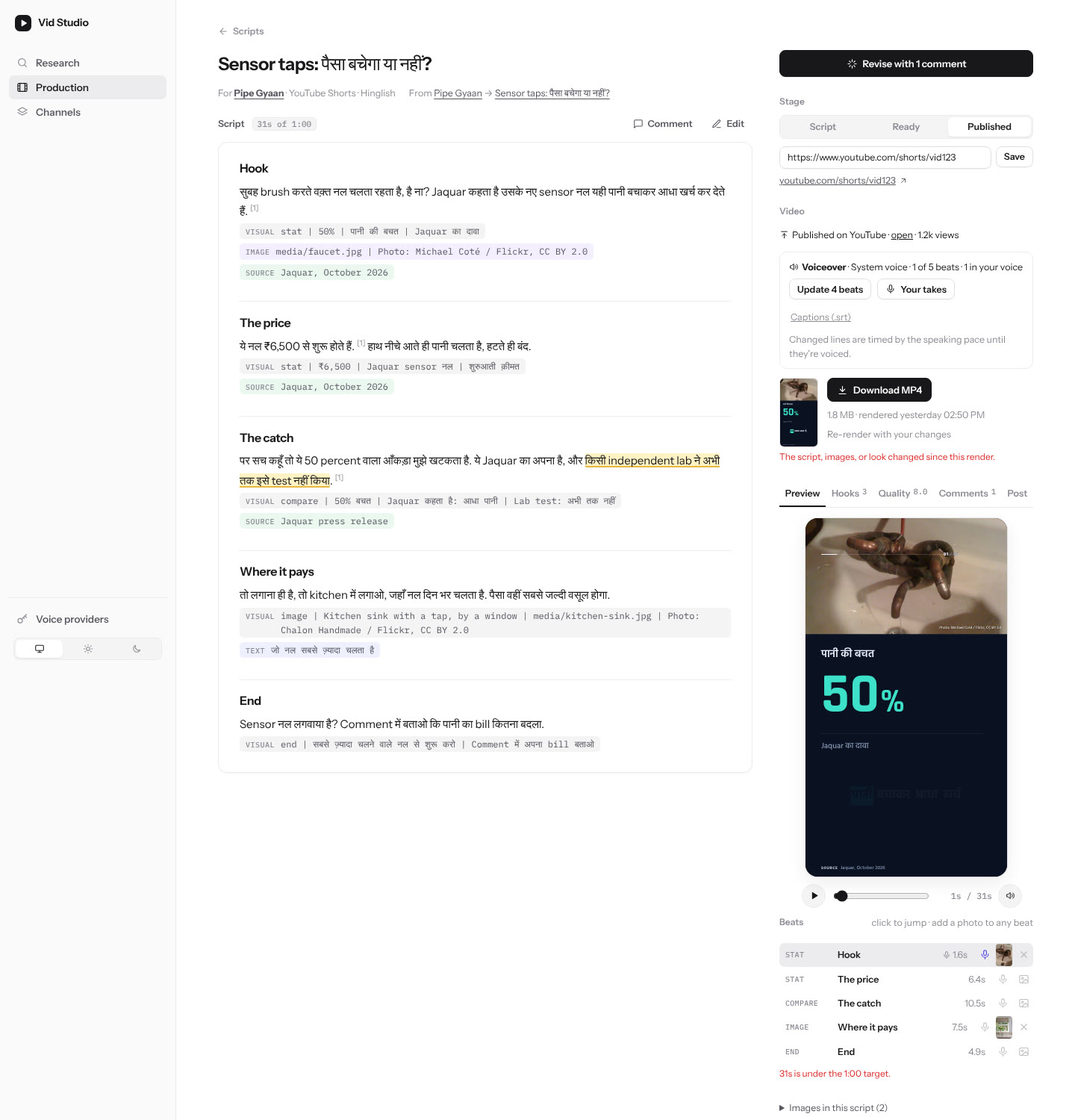
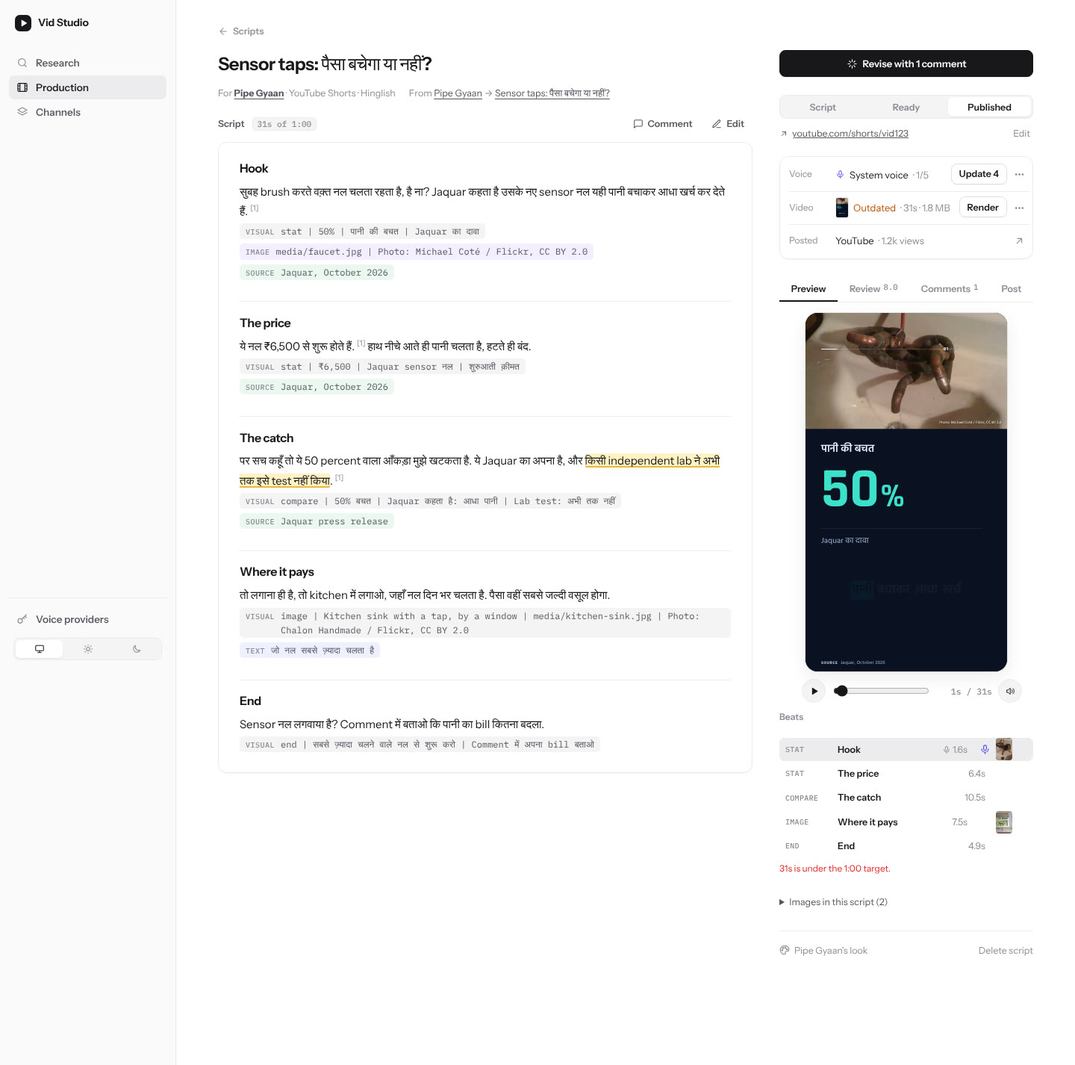
Simplify the script sidebar, move project settings to the sidebar footer, and rewrite the README
The script page's sidebar was three stacked boxes and five tabs. It is now
one primary action, the stage, and a single status card with one row each
for voice, video and the post. Each row has one next action, with the
rarer ones in a "⋯" menu. Hooks and the score merge into a Review tab,
beat actions show on hover, and the channel's look and Delete script move
to a quiet footer. The published link shows as a link with Edit instead of
a permanent input.

Project settings move to the sidebar footer, next to voice providers.

The README is rewritten around what the studio does (research, write,
produce, publish), with framed light and dark screenshots of the real UI
and a small flow diagram, then requirements, files and development.

Claude-Session: https://claude.ai/code/session_01Ufks24pPpBPncrmdvzrX2E

diff --git a/skills/vid-studio/assets/ui/index.html b/skills/vid-studio/assets/ui/index.html
@@ -334,6 +334,39 @@ textarea.doc.short { height: 260px; }
 .side-tabs button.on { color: var(--ink); box-shadow: inset 0 -2px 0 var(--ink); }
 .side-tabs .n { font: 500 10.5px var(--mono); color: var(--ink-3); }
 #side-panel { display: grid; gap: 10px; }
+.side .stage-seg { margin-bottom: 4px; }
+.published, .published-link { display: flex; gap: 6px; align-items: center; margin-top: 8px; }
+.published-link a { display: inline-flex; gap: 5px; align-items: center; font-size: 12.5px; color: var(--ink-2); min-width: 0; overflow: hidden; text-overflow: ellipsis; white-space: nowrap; }
+.published-link a svg { width: 12px; height: 12px; flex: none; }
+.published-link .text-btn { padding: 2px 4px; margin-left: auto; }
+.side section.status { margin-top: 18px; border: 1px solid var(--line); border-radius: var(--radius-lg); background: var(--raised); padding: 2px 4px 2px 12px; box-shadow: var(--shadow-xs); }
+.status-row { display: grid; grid-template-columns: 52px minmax(0, 1fr) auto; align-items: center; gap: 10px; min-height: 44px; font-size: 13px; }
+.status-row + .status-row { border-top: 1px solid var(--line); }
+.status-label { color: var(--ink-3); font-size: 12px; }
+.status-value svg { width: 13px; height: 13px; color: var(--accent); flex: none; }
+.status-value { display: flex; align-items: center; gap: 6px; min-width: 0; white-space: nowrap; overflow: hidden; text-overflow: ellipsis; }
+.status-value .bar { flex: 1; height: 3px; border-radius: 2px; background: var(--surface-2); overflow: hidden; min-width: 40px; }
+.status-value .bar i { display: block; height: 100%; background: var(--accent); }
+.status-thumb { width: 18px; height: 28px; object-fit: cover; border-radius: 3px; flex: none; border: 1px solid var(--line); }
+.status-act { display: flex; align-items: center; gap: 2px; }
+.status-act .icon-btn { width: 28px; height: 28px; }
+.status .beat-warn { margin: 0 4px 10px 0; }
+.ok-dot { width: 7px; height: 7px; border-radius: 50%; background: var(--success); margin: 0 10px; }
+.warn-text { color: var(--warn); }
+details.more { position: relative; }
+details.more > summary { list-style: none; width: 28px; height: 28px; }
+details.more > summary::-webkit-details-marker { display: none; }
+.more-pop { position: absolute; right: 0; top: 32px; z-index: 20; min-width: 220px; padding: 4px; background: var(--raised); border: 1px solid var(--line); border-radius: 10px; box-shadow: var(--shadow); display: grid; }
+.more-item { display: flex; align-items: center; gap: 8px; height: 32px; padding: 0 10px; border: 0; border-radius: 6px; background: transparent; font-size: 13px; color: var(--ink); text-decoration: none; cursor: pointer; text-align: left; white-space: nowrap; }
+.more-item:hover { background: var(--surface); }
+.more-item svg { width: 15px; height: 15px; color: var(--ink-3); }
+.more-note { font-size: 11.5px; color: var(--ink-3); padding: 6px 10px 4px; border-top: 1px solid var(--line); margin-top: 4px; }
+.side-foot { display: flex; align-items: center; justify-content: space-between; gap: 8px; margin-top: 24px; padding-top: 12px; border-top: 1px solid var(--line); font-size: 12.5px; }
+.side-foot a { display: inline-flex; align-items: center; gap: 6px; color: var(--ink-3); text-decoration: none; }
+.side-foot a:hover { color: var(--ink); }
+.side-foot svg { width: 14px; height: 14px; }
+.side-foot .text-btn { padding: 4px 0; }
+.angles { display: grid; gap: 8px; }
 #side-panel .field { margin-bottom: 10px; }
 #side-panel .side-actions { margin-top: 12px; display: grid; gap: 8px; }
 #side-panel .player-bar { max-width: 280px; }
@@ -383,7 +416,8 @@ a.ref-link:hover { border-color: var(--line-3); }
 .beat-row:hover { background: var(--surface); }
 .beat-row.on { background: var(--surface-2); }
 .beat-row .beat:hover { background: none; }
-.beat-row .icon-btn { flex: none; width: 26px; height: 26px; opacity: .55; }
+.beat-row .icon-btn { flex: none; width: 26px; height: 26px; opacity: 0; }
+@media (hover: none) { .beat-row .icon-btn { opacity: .6; } }
 .beat-row:hover .icon-btn, .beat-row .icon-btn.needs, .beat-row .icon-btn.on { opacity: 1; }
 .beat-row .icon-btn.needs { color: var(--danger); }
 .beat-row .icon-btn.on { color: var(--accent); }
@@ -614,9 +648,9 @@ dialog .sub { margin: 0 0 18px; color: var(--ink-2); font-size: 13px; }
     <div class="research-context" id="research-context" hidden>
       <p class="side-label">Projects</p>
       <div class="switcher" id="switcher"></div>
-      <button class="side-link" data-action="settings" id="settings-btn"><span>Project settings</span></button>
     </div>
     <div class="sidebar-foot">
+      <button class="side-link" data-action="settings" id="settings-btn" title="Project settings"><span>Project settings</span></button>
       <button class="side-link" data-action="voice-keys" title="Voice provider keys" data-icon="key"><span>Voice providers</span></button>
       <div class="theme-seg" role="group" aria-label="Theme" id="theme-seg"></div>
     </div>
@@ -656,6 +690,7 @@ const ICONS = {
   image: '<rect x="3" y="4" width="18" height="16" rx="2"/><circle cx="9" cy="10" r="2"/><path d="m21 17-5-5-9 8"/>',
   copy: '<rect x="9" y="9" width="12" height="12" rx="2"/><path d="M5 15V5a2 2 0 0 1 2-2h10"/>',
   layers: '<path d="m12 3 9 5-9 5-9-5 9-5Z"/><path d="m3 13 9 5 9-5"/>',
+  more: '<circle cx="5" cy="12" r="1.3" fill="currentColor"/><circle cx="12" cy="12" r="1.3" fill="currentColor"/><circle cx="19" cy="12" r="1.3" fill="currentColor"/>',
   sun: '<circle cx="12" cy="12" r="4"/><path d="M12 2v2M12 20v2M4.9 4.9l1.4 1.4M17.7 17.7l1.4 1.4M2 12h2M20 12h2M4.9 19.1l1.4-1.4M17.7 6.3l1.4-1.4"/>',
   moon: '<path d="M20 14.5A8 8 0 0 1 9.5 4a8 8 0 1 0 10.5 10.5Z"/>',
   monitor: '<rect x="3" y="4" width="18" height="12" rx="2"/><path d="M8 20h8M12 16v4"/>',
@@ -1598,7 +1633,7 @@ function publishingPanel(c) {
         <p class="muted small">${chosen.id === "youtube" ? "New uploads start private unless you change it here or on the post. Until Google audits your API project, YouTube keeps its uploads private; make them public in YouTube Studio. YouTube asks you to label realistic altered or synthetic content; a narrated explainer usually isn't." : chosen.id === "tiktok" ? "TikTok only lets apps it hasn't audited post privately; drafts always work." : "Instagram posts go live straight away; there is no private or scheduled post through its API."}</p></section>` : ""}
     </div>
     <div class="preview-col"><p class="save-note" id="save-note"></p>
-      <div class="ask"><h4>${icon("upload")}How publishing works</h4><p class="muted small">Render a script, check its post details on the script's Publish tab, and click Publish. The studio uploads the MP4 from this computer straight to ${esc(chosen?.name || "the platform")}, then marks the script published with its link. Nothing posts without you clicking Publish and confirming.</p></div></div>
+      <div class="ask"><h4>${icon("upload")}How publishing works</h4><p class="muted small">Render a script, check its post details on the script's Post tab, and click Publish. The studio uploads the MP4 from this computer straight to ${esc(chosen?.name || "the platform")}, then marks the script published with its link. Nothing posts without you clicking Publish and confirming.</p></div></div>
   </div>`;
 }
 async function savePublishing(view, changes) {
@@ -1689,7 +1724,7 @@ async function renderEditor(kind, id) {
         if (!current() || editor !== view) return;
         Object.assign(view, { design, voice });
         if (!VOICE_PROVIDERS) loadVoiceProviders().then(() => { if (editor === view) updateVideoBox(); }).catch(() => {});
-        editor.sideTab = docText().trim() ? "preview" : "hooks";
+        editor.sideTab = docText().trim() ? "preview" : "review";
       }
     }
     catch (e) { if (!current()) return; app.innerHTML = `<a class="back" href="${kind === "script" ? "#/production" : base() + "/stories"}">${icon("back")}${E.backLabel}</a><div class="empty"><h3>Not found</h3><p>${esc(e.message)}</p></div>`; return; }
@@ -1804,66 +1839,73 @@ function scriptTextChanged() {
 const SCORE_LABELS = [["hook", "Hook"], ["clarity", "Clarity"], ["retention", "Retention"], ["specificity", "Specificity"], ["voice", "Voice"], ["human", "Human story"], ["natural", "Sounds human"], ["value", "Value"], ["accuracy", "Accuracy"]];
 function scriptSide() {
   const d = editor.data, open = openComments(d);
-  const tabs = isPost() ? [] : [["preview", "Preview"], ["hooks", "Hooks"], ["quality", "Quality"], ["comments", "Comments"], ["publish", "Post"]];
-  const badge = { hooks: (d.angles || []).length, comments: open.length, quality: d.review ? avgScore(d.review).toFixed(1) : "" };
-  const tab = isPost() ? "comments" : editor.sideTab || "preview";
-  return `<div class="side-actions"><button class="btn primary" data-action="write-draft">${icon("spark")}${open.length ? `Revise with ${plural(open.length, "comment")}` : "Write draft"}</button></div>
-    <section><h4>Stage</h4>
-      <div class="seg stage-seg">${STAGES.map(([key, label]) => `<button type="button" class="${d.stage === key ? "on" : ""}" data-action="set-stage" data-id="${key}">${label}</button>`).join("")}</div>
-      ${d.stage === "published" ? `<div class="published"><input class="url-input" id="published-url" value="${esc(d.published_url)}" placeholder="Paste the published link" inputmode="url">
-        <button class="btn small" data-action="save-url">Save</button></div>
-        ${d.published_url ? `<a class="small-link" href="${safeUrl(d.published_url)}" target="_blank" rel="noopener noreferrer">${esc(shortUrl(d.published_url))}${icon("external")}</a>` : ""}` : ""}</section>
-    ${isPost() ? "" : `<section id="video-box">${videoBox()}</section>`}
+  const tabs = isPost() ? [] : [["preview", "Preview"], ["review", "Review"], ["comments", "Comments"], ["publish", "Post"]];
+  const badge = { review: d.review ? avgScore(d.review).toFixed(1) : (d.angles || []).length || "", comments: open.length };
+  const tab = isPost() ? "comments" : tabs.some(t => t[0] === editor.sideTab) ? editor.sideTab : "preview";
+  const editingUrl = editor.editUrl || !d.published_url;
+  return `<div class="side-actions"><button class="btn primary" data-action="write-draft">${icon("spark")}${open.length ? `Revise with ${plural(open.length, "comment")}` : d.text?.trim() ? "Rewrite with your agent" : "Write draft"}</button></div>
+    <div class="seg stage-seg" role="group" aria-label="Stage">${STAGES.map(([key, label]) => `<button type="button" class="${d.stage === key ? "on" : ""}" data-action="set-stage" data-id="${key}">${label}</button>`).join("")}</div>
+    ${d.stage === "published" ? (editingUrl ? `<div class="published"><input class="url-input" id="published-url" value="${esc(d.published_url)}" placeholder="Paste the published link" inputmode="url"><button class="btn small" data-action="save-url">Save</button></div>`
+      : `<div class="published-link"><a href="${safeUrl(d.published_url)}" target="_blank" rel="noopener noreferrer">${icon("external")}${esc(shortUrl(d.published_url))}</a><button class="text-btn" data-action="edit-url">Edit</button></div>`) : ""}
+    ${isPost() ? "" : `<section class="status" id="video-box">${videoBox()}</section>`}
     ${tabs.length ? `<div class="side-tabs" role="tablist">${tabs.map(([key, label]) => `<button type="button" role="tab" aria-selected="${tab === key}" class="${tab === key ? "on" : ""}" data-action="side-tab" data-id="${key}">${label}${badge[key] ? `<span class="n">${badge[key]}</span>` : ""}</button>`).join("")}</div>` : ""}
-    <div id="side-panel">${({ preview: previewTab, hooks: hooksTab, quality: qualityTab, comments: commentsTab, publish: publishTab })[tab]()}</div>
-    <section><button class="text-btn danger-text" data-action="delete-script" data-id="${esc(d.id)}">Delete script</button></section>`;
+    <div id="side-panel">${({ preview: previewTab, review: reviewTab, comments: commentsTab, publish: publishTab })[tab]()}</div>
+    <div class="side-foot">${isPost() ? "<span></span>" : lookLink()}
+      <button class="text-btn danger-text" data-action="delete-script" data-id="${esc(d.id)}">Delete script</button></div>`;
+}
+const lookLink = () => `<a href="${channelHref(editor.data.channel, "look")}">${icon("palette")}${esc(channelLabel(editor.data.channel))}'s look</a>`;
+// A "⋯" menu for the less common actions of a status row.
+const moreMenu = items => items.filter(Boolean).length ? `<details class="more"><summary class="icon-btn" aria-label="More">${icon("more")}</summary><div class="more-pop">${items.filter(Boolean).join("")}</div></details>` : "";
+const statusRow = (label, value, action = "", menu = "") => `<div class="status-row"><span class="status-label">${label}</span><span class="status-value">${value}</span><span class="status-act">${action}${menu}</span></div>`;
+function reviewTab() {
+  return `<section><h4>Score</h4>${qualityTab()}</section><section><h4>Hooks</h4><div class="angles">${hooksTab()}</div></section>`;
 }
 
-function voiceoverBox() {
+function voiceoverRow() {
   const n = editor.data.narration, c = channelById(editor.data.channel) || {};
   if (!n) return "";
   const lines = scriptScenes().filter(x => x.say || x.vo), beats = lines.length, mine = lines.filter(x => x.audio?.recorded).length;
-  const record = beats ? `<button class="btn small ${n.provider === "recorded" && mine < beats ? "primary" : ""}" data-action="record-voice">${icon("mic")}${mine ? (mine < beats && n.provider === "recorded" ? `Record ${plural(beats - mine, "beat")}` : "Your takes") : "Record it yourself"}</button>` : "";
-  if (!n.provider) return `<div class="vo-box"><p class="small">${icon(mine ? "mic" : "mute")}<b>Voiceover</b> · ${mine ? `${mine} of ${plural(beats, "beat")} in your voice` : "none, the video renders silent"}</p>
-    <div class="inline">${record}<a class="text-btn" href="${channelHref(editor.data.channel, "narration")}">Choose a voice for ${esc(c.name || "this channel")}</a></div></div>`;
-  const missing = voiceoverMissing(), done = beats - missing;
-  const who = n.provider === "recorded" ? "Your voice" : esc([voiceProvider(n.provider)?.name || n.provider, n.voice].filter(Boolean).join(" · "));
-  if (n.status === "narrating") return `<div class="vo-box"><div class="render-bar"><i style="width:${Math.round((n.progress || 0) * 100)}%"></i></div><p class="muted small">Recording the voiceover with ${who}… ${Math.round((n.progress || 0) * 100)}%</p></div>`;
-  const synth = n.provider !== "recorded";
-  return `<div class="vo-box">${n.status === "failed" && n.error ? `<p class="beat-warn">Voiceover failed: ${esc(n.error)}</p>` : ""}
-    <p class="small">${icon(synth ? "volume" : "mic")}<b>Voiceover</b> · ${who} · ${beats ? `${done} of ${plural(beats, "beat")}` : "no lines yet"}${synth && mine ? ` · ${mine} in your voice` : ""}</p>
-    ${beats ? `<div class="inline">${synth ? (missing ? `<button class="btn small" data-action="narrate">${done ? `Update ${plural(missing, "beat")}` : "Make voiceover"}</button>` : `<span class="pill ok">Up to date</span>`) : (missing ? "" : `<span class="pill ok">All recorded</span>`)}
-      ${record}${synth && done > mine ? `<button class="text-btn" data-action="narrate" data-id="force">Redo all</button>` : ""}${done ? `<a class="text-btn" href="${scriptApi()}/captions.srt" download>Captions (.srt)</a>` : ""}</div>` : ""}
-    ${missing && done ? `<p class="muted small">${synth ? "Changed lines are timed by the speaking pace until they're voiced." : "Beats you haven't recorded are timed by the speaking pace and stay silent."}</p>` : ""}</div>`;
+  const synth = n.provider && n.provider !== "recorded", missing = voiceoverMissing(), done = beats - missing;
+  const who = !n.provider ? "None" : n.provider === "recorded" ? "Your voice" : esc(voiceProvider(n.provider)?.name || n.provider);
+  if (n.status === "narrating") return statusRow("Voice", `<span class="muted">Recording… ${Math.round((n.progress || 0) * 100)}%</span><span class="bar"><i style="width:${Math.round((n.progress || 0) * 100)}%"></i></span>`);
+  const count = !beats ? "" : `<span class="muted" title="${esc(`${done} of ${plural(beats, "beat")} voiced${mine ? `, ${mine} in your voice` : ""}`)}"> · ${!n.provider ? mine : done}/${beats}</span>`;
+  const record = beats ? `<button class="more-item" data-action="record-voice">${icon("mic")}${mine ? "Your takes" : "Record it yourself"}</button>` : "";
+  const action = !beats ? "" : synth && missing ? `<button class="btn small" data-action="narrate">${done ? `Update ${missing}` : "Make"}</button>`
+    : n.provider === "recorded" && missing ? `<button class="btn small" data-action="record-voice">${icon("mic")}Record ${missing}</button>`
+    : n.provider ? `<span class="ok-dot" title="Up to date"></span>` : "";
+  return statusRow("Voice", `${mine ? icon("mic") : ""}${who}${count}`, action, moreMenu([record,
+    synth && done > mine ? `<button class="more-item" data-action="narrate" data-id="force">${icon("refresh")}Redo all beats</button>` : "",
+    done ? `<a class="more-item" href="${scriptApi()}/captions.srt" download>${icon("file")}Captions (.srt)</a>` : "",
+    `<a class="more-item" href="${channelHref(editor.data.channel, "narration")}">${icon("volume")}Change ${esc(c.name || "channel")}'s voice</a>`]))
+    + (n.status === "failed" && n.error ? `<p class="beat-warn">Voiceover failed: ${esc(n.error)}</p>` : "");
 }
 function videoBox() {
   const v = editor.data.video;
   if (!v) return "";
-  const url = scriptApi();
-  const pct = Math.round((v.progress || 0) * 100);
-  const placeholders = v.placeholders?.length ? `<p class="beat-warn">${esc(plural(v.placeholders.length, "beat"))} still ${v.placeholders.length === 1 ? "needs an image" : "need images"}: ${esc(v.placeholders.join(", "))}.</p>` : "";
-  let body;
-  if (v.status === "rendering") body = `<div class="render-bar"><i style="width:${pct}%"></i></div><p class="muted small">Rendering on this computer… ${pct}%. You can keep working.</p>`;
-  else if (v.ready) body = `<div class="video-ready"><img class="video-poster" src="${url}/poster.jpg?v=${esc(v.finished || "")}" alt="">
-      <div><a class="btn primary" href="${url}/video" download>${icon("download")}Download MP4</a>
-        <p class="muted small">${v.size ? `${(v.size / 1e6).toFixed(1)} MB · ` : ""}rendered ${esc(when(v.finished))}</p>
-        <button class="text-btn" data-action="render-video">${v.stale ? "Re-render with your changes" : "Render again"}</button></div></div>
-      ${v.stale ? `<p class="beat-warn">The script, images, or look changed since this render.</p>` : ""}`;
-  else body = `<button class="btn" data-action="render-video">${icon("film")}Render MP4</button><p class="muted small">Renders on this computer (Chrome + ffmpeg). It can take a few minutes${editor.data.narration?.provider && voiceoverMissing() ? ", and records the voiceover first" : ""}.</p>`;
+  const url = scriptApi(), pct = Math.round((v.progress || 0) * 100);
+  let row;
+  if (v.status === "rendering") row = statusRow("Video", `<span class="muted">Rendering… ${pct}%</span><span class="bar"><i style="width:${pct}%"></i></span>`);
+  else if (v.ready) row = statusRow("Video", `<img class="status-thumb" src="${url}/poster.jpg?v=${esc(v.finished || "")}" alt="">${v.stale ? `<span class="warn-text">Outdated</span>` : "Ready"}<span class="muted"> · ${fmtTime(editor.data.duration)}${v.size ? ` · ${(v.size / 1e6).toFixed(1)} MB` : ""}</span>`,
+    v.stale ? `<button class="btn small" data-action="render-video">Render</button>` : `<a class="btn small" href="${url}/video" download>${icon("download")}MP4</a>`,
+    moreMenu([v.stale ? `<a class="more-item" href="${url}/video" download>${icon("download")}Download the last render</a>` : `<button class="more-item" data-action="render-video">${icon("film")}Render again</button>`,
+      `<span class="more-note">Rendered ${esc(when(v.finished))}</span>`]));
+  else row = statusRow("Video", `<span class="muted">Not rendered</span>`, `<button class="btn small" data-action="render-video">${icon("film")}Render</button>`);
   const pub = editor.data.publish, done = pub && PUBLISH_DONE[pub.status];
-  const posted = done ? `<p class="small">${icon("upload")}${done} on ${esc(platformById(pub.platform)?.name || pub.platform)}${pub.url ? ` · <a href="${safeUrl(pub.url)}" target="_blank" rel="noopener noreferrer">open</a>` : ""}${pub.stats?.views != null ? ` · ${compact(pub.stats.views)} views` : ""}</p>`
-    : pub?.status === "uploading" ? `<p class="small muted">${icon("upload")}Uploading… ${Math.round((pub.progress || 0) * 100)}%</p>` : "";
-  return `<h4>Video</h4>${posted}${voiceoverBox()}${v.status === "failed" && v.error ? `<p class="beat-warn">Last render failed: ${esc(v.error)}</p>` : ""}${body}${placeholders}`;
+  const posted = done ? statusRow("Posted", `${esc(platformById(pub.platform)?.name || pub.platform)}${pub.stats?.views != null ? `<span class="muted"> · ${compact(pub.stats.views)} views</span>` : ""}`,
+      pub.url ? `<a class="icon-btn" href="${safeUrl(pub.url)}" target="_blank" rel="noopener noreferrer" aria-label="Open the post" title="Open the post">${icon("external")}</a>` : "")
+    : pub?.status === "uploading" ? statusRow("Posted", `<span class="muted">Uploading… ${Math.round((pub.progress || 0) * 100)}%</span>`) : "";
+  const notes = [v.status === "failed" && v.error ? `Last render failed: ${v.error}` : "",
+    v.placeholders?.length ? `${plural(v.placeholders.length, "beat")} still ${v.placeholders.length === 1 ? "needs an image" : "need images"}: ${v.placeholders.join(", ")}` : ""].filter(Boolean);
+  return voiceoverRow() + row + posted + notes.map(n => `<p class="beat-warn">${esc(n)}</p>`).join("");
 }
 const updateVideoBox = () => { const box = document.getElementById("video-box"); if (box && editor) box.innerHTML = videoBox(); };
 
 function previewTab() {
   if (!editor.design) return `<p class="muted small">Couldn't load this channel's look.</p>`;
   return `<div class="device aspect-${esc((editor.design.aspect || "9:16").replace(":", "x"))}" id="script-player"></div>${playerBar(Boolean(editor.data.narration?.provider))}
-    <h4 class="beats-head">Beats <span class="muted small">click to jump · add a photo to any beat</span></h4>
+    <h4 class="beats-head">Beats</h4>
     <div class="beats" id="beat-list">${beatList()}</div>
-    ${mediaLibrary()}
-    <a class="small-link" href="${channelHref(editor.data.channel, "look")}">${icon("palette")}Edit ${esc(channelLabel(editor.data.channel))}'s look</a>`;
+    ${mediaLibrary()}`;
 }
 
 function beatList() {
@@ -2593,7 +2635,8 @@ const actions = {
         : "The story has no research notes yet, so your agent researches it first, then writes the script. Paste this into Claude or ChatGPT."));
   },
   async "set-stage"(stage) { if (stage !== editor.data.stage) await updateMeta({ stage }); },
-  async "save-url"() { await updateMeta({ published_url: document.getElementById("published-url").value }); toast("Link saved"); },
+  async "save-url"() { editor.editUrl = false; await updateMeta({ published_url: document.getElementById("published-url").value }); toast("Link saved"); },
+  "edit-url"() { editor.editUrl = true; rerender(); document.getElementById("published-url")?.focus(); },
   async "add-comment"() {
     const picked = selectedQuote();
     if (editor.dirty && !(await saveDoc())) return;
@@ -2948,6 +2991,7 @@ function cardAction(event) {
   Promise.resolve(actions[card.dataset.card](card.dataset.id, card)).catch(e => toast(e.message, "error"));
 }
 document.addEventListener("click", cardAction);
+document.addEventListener("click", event => { document.querySelectorAll("details.more[open]").forEach(d => { if (!d.contains(event.target) || event.target.closest(".more-item")) d.open = false; }); });
 document.addEventListener("keydown", cardAction);
 document.addEventListener("change", event => {
   const el = event.target.closest('select[data-action]');

diff --git a/tests/test_ui.js b/tests/test_ui.js
@@ -212,7 +212,7 @@ test('source-story, channel-look, and story-to-script links cross the independen
   h.run('S = projectState; editor = {kind:"script",data:{id:"draft",story:"source",channel:"a"},design:{aspect:"9:16"},voice:{},sideTab:"preview"};');
   assert.match(h.run('scriptHeader()'), /href="#\/research\/p\/stories\/source"/);
   assert.match(h.run('scriptHeader()'), /href="#\/channels\/a"/);
-  assert.match(h.run('previewTab()'), /href="#\/channels\/a\/look"/);
+  assert.match(h.run('lookLink()'), /href="#\/channels\/a\/look"/);
   h.run('editor = {kind:"story",data:{id:"source",topics:[],findings:[]}};');
   assert.match(h.run('storySide()'), /href="#\/production\/p\/draft"/);
 });

diff --git a/README.md b/README.md
@@ -1,84 +1,86 @@
 # Vid Studio
 
-A skill for running research for explainer videos with any AI agent that supports [skills](https://skills.sh/), such as Claude, ChatGPT, or Codex. All data stays in a local folder, and you work in a small web UI (light or dark).
+Research, write, voice and publish short explainer videos with your AI agent. Everything lives in a folder on your computer, you work in a small local studio, and videos render on your own machine.
+
+<picture>
+  <source media="(prefers-color-scheme: dark)" srcset="docs/readme/script-dark.jpg">
+  <img alt="A script in Vid Studio: the beats on the left, the live preview in the channel's look on the right" src="docs/readme/script.jpg">
+</picture>
 
 ```sh
 npx skills add namanbnsl/vid-studio
 ```
 
+Then ask your agent: *"Use vid-studio to set up my project."* It works with any agent that supports [skills](https://skills.sh/), such as Claude, ChatGPT or Codex.
+
+## Research
+
+A project follows a subject: say, plumbing products or Indian tech news. You give it **topics** and the **sources** it must check. On each run, your agent checks every source and searches the web, and brings back short **findings**, each linked to the pages it came from. Pick the findings worth a video and turn them into a **story**; your agent researches it once, in depth, for every script that follows. Research can run on a schedule.
+
+![Findings in a research project](docs/readme/research.jpg)
+
+## Write
+
+A story becomes one **script** per channel, written in that channel's language (English, Hindi or Hinglish) and voice. Scripts are written as beats: what's said, and what's shown on screen (a number, a chart, a comparison, a quote, a photo). Your agent finds openly licensed photos for the beats about real things (credited on screen), drafts several hooks, and scores its own draft; you comment on any passage for it to fix. Production keeps every script on one board, from draft to published.
+
+![The production board](docs/readme/production.jpg)
+
+## Produce
+
+Each **channel** has a look (twelve styles to start from, then colours, fonts with Hindi support, motion and captions), a writing voice, and a **narrator**. The narrator can be a voice on your computer, ElevenLabs, Sarvam AI, OpenAI or Google Cloud, or you: record each beat in the studio's teleprompter, or clone your voice. Every beat then lasts as long as its voice, captions follow the words, and the MP4 renders on your machine with Chrome and ffmpeg.
+
+![A channel's look, with a live preview](docs/readme/look.jpg)
+
+![Recording a beat in your own voice](docs/readme/recorder.jpg)
+
+## Publish
+
+Connect a channel to its YouTube channel, Instagram professional account or TikTok account, and publish from the script page. You set the title, caption, visibility and release time; the studio uploads the MP4 with each platform's official API and adds the sources and photo credits. Nothing goes out until you click Publish and confirm.
+
+![A channel's publishing settings](docs/readme/publishing.jpg)
+
 ## How it works
 
-The studio has three global tabs: **Research**, **Production**, and **Channels**. They stay available wherever you are in the app.
+<picture>
+  <source media="(prefers-color-scheme: dark)" srcset="docs/readme/flow-dark.svg">
+  <img alt="Research, then Production, then Channels" src="docs/readme/flow-light.svg" width="976">
+</picture>
 
-**Research** happens in **projects** (each one a subject area, such as plumbing products or Indian tech news), and you switch between them in the UI. Each project has:
+Research stays reusable: one story can become an English Short, a Hinglish Reel and a Hindi WhatsApp post. Your agent does the thinking work (research, stories, scripts, revisions), and the studio shows you the results as soon as they land. Where a step needs your agent, the studio has a button that copies the prompt.
 
-- **Topics:** what the project makes videos about. Each one is a name plus a description of what matters.
-- **Sources:** websites every research run must check. Research also suggests new ones for you to approve.
-- **Findings:** short items on new developments, each linked to its topics and to the pages it came from. Dismiss what you don't need.
-- **Stories:** an angle for a video, built from findings, topics, or both, with research notes.
+The workspace is plain JSON and Markdown in `~/vid-studio` (or `$VID_STUDIO_HOME`), one folder per project, so it's easy to read, back up or edit by hand. API keys and account tokens are kept in `.secrets.json` in that folder, readable only by you.
 
-**Production** shows scripts from every research project on one board, with optional project and channel filters. A story becomes one script per channel you send it to. Scripts move through stages (script, ready, published), and you can comment on any passage for your agent to address. Each script links back to its source story and to its channel.
+## Requirements
 
-**Channels** manages publishing destinations (each YouTube channel, Instagram account, TikTok account, or WhatsApp channel), shared across the studio, and connects video channels to their real accounts. They set each script's language, format, look, and voice. One research story can become an English Short, a Hinglish Reel, and a Hindi WhatsApp post. You can set up channels before adding a research project.
-
-The information flow is **Research story → Production scripts → Channels**. Research stays reusable; each script adapts that evidence for its destination. Projects organize Research and appear as source labels or optional filters in Production.
-
-Each channel has a **Voice** (length, pace, persona, tone, hook styles, rules, and scripts you love) and, for video channels, a **Look** (one of twelve styles to start from, then colors, fonts with Hindi support, motion, captions with a highlight or underline that follows the voice, photo treatment and placement, source tags, a progress line with a folio, background, logo). You set both up when you add a channel, with a live preview of animated sample scenes in that look.
-
-**Human, start to finish.** Research looks for the people a story lands on, the everyday moment they meet it, and the questions they actually ask. Story notes record them; scripts are about someone (a real case, the viewer, or an openly hypothetical relative, never an invented "Rahul from Pune"), carry a point of view the evidence earns, and are scored on whether they feel human as well as whether they sound it. The linter catches invented characters, fake anecdotes, reframes, fragment chains and flat rhythm.
-
-Video scripts are written as beats: what's said, plus a `Visual:` line naming a scene (a stat, bar chart, comparison, list, quote, timeline, photo, punchline, or the message or call the story turns on). A beat can also have a photo behind it (`Image:`), a small on-screen source tag (`Source:`), and a fixed length (`Duration:`). The script editor plays them as an animated preview in the channel's look as you type, shows the timing against the target, the hooks your agent considered (swap one in with a click), and its self-review scores, including whether it tells a human story, whether it sounds human, and whether it's worth the viewer's minute.
-
-**Images.** Photos run edge to edge across the top of the frame, like the picture on a magazine page, with the scene set below (beside it in wide formats), or faint behind charts. Your agent picks photos for the beats about real things and people: openly licensed photos from Wikimedia Commons and Openverse (no API key; it looks at previews before choosing), or images it generates with its own image tool, if it has one. Generated images are never used for real people, products, logos, or documents. Every photo is saved with the script and credited on screen. You can also add your own photo to any beat from the script page.
-
-**Your own voice.** Record any beat yourself on the script page: a teleprompter shows each line, you record, listen and keep, or upload a take. Takes always win over the narrator, and a channel can use **Your voice** as its narrator so you read every beat. With ElevenLabs you can also clone your voice from a minute or two of recordings.
-
-**Voiceover.** Give a video channel a narrator on its **Narration** tab: a voice on your computer (the system voice, or free offline [Piper](https://github.com/OHF-Voice/piper1-gpl) voices), or ElevenLabs, Sarvam AI, OpenAI or Google Cloud with your own API key. Hear samples, set the speed, the pause between beats, and how words are pronounced. Each beat is voiced on its own and reused until its line changes; beats then last as long as the voice takes, captions follow it (word by word with ElevenLabs), and a `Say:` line lets the voice read "twelve thousand rupees" while the screen shows ₹12,000. The MP4 gets the voiceover, mixed to a loudness phones expect, plus an `.srt` captions file.
-
-**Publish.** Connect a video channel to its YouTube channel, Instagram professional account, or TikTok account on its **Publishing** tab. On a script's **Post** tab, check the title, description or caption, hashtags, visibility and (on YouTube) a release time, then click **Publish**: the MP4 uploads from your computer with each platform's official API, with the poster as the thumbnail, the voiceover's captions, and the sources and photo credits appended. The script moves to Published with its link, and its views show on the board. You bring your own Google Cloud or TikTok app (or an Instagram token), so nobody else holds your access; tokens stay in the studio's `.secrets.json`.
-
-**Download.** Click **Render MP4** on a script, then **Download MP4**: the video renders on your computer (1080p, 30 fps) with Chrome and ffmpeg, which you need installed. Your agent can do the same with `studio.py render --script ID --out ~/Desktop`. `studio.py export` writes the same video as a [HyperFrames](https://github.com/heygen-com/hyperframes) project instead.
-
-The steps that need an AI each have a button that copies a prompt. Paste it into Claude or ChatGPT, and the results show up in the UI:
-
-- **Research now:** your agent researches every topic and adds findings.
-- **Research story:** your agent researches a story's findings and topics in depth and writes its notes.
-- **Send to production**, then **Write draft:** your agent writes each channel's script from the story's notes, following a craft guide: several hooks, a plain-spoken first pass, a beat outline, photos and sources, timing, a pass to remove anything that sounds machine-made, and an honest self-review against a rubric. With open comments, the button becomes **Revise**, and your agent works through them in order.
-- **Ask your agent** (on a channel's Look and Voice): describe a change in words, and your agent makes it.
-
-To research on a schedule, click the schedule link under **Research now**, pick the days and times, and paste the copied prompt into your agent. It creates the scheduled task.
-
-## Start
-
-> Use vid-studio to set up my project.
-
-Your agent creates the studio (`~/vid-studio` by default, one folder per project in `projects/`), proposes topics and sources, and opens the studio at `http://localhost:8765`. Later, "Use vid-studio, open the studio" brings it back.
+- Python 3.10 or newer. The studio uses only the standard library.
+- Google Chrome (or Chromium) and ffmpeg, to render MP4s and convert recordings.
+- Optional: an API key for a cloud voice (ElevenLabs, Sarvam AI, OpenAI, Google Cloud); `espeak-ng` or [Piper](https://github.com/OHF-Voice/piper1-gpl) for free voices on your computer; your own Google Cloud or TikTok app, or an Instagram token, to publish.
 
 ## Files
 
 ```
 skills/vid-studio/
-  SKILL.md            entry point
-  references/         setup, research, story, write, script craft, scenes, images, look, narration, publish, schedule
-  scripts/studio.py   helper and local web server (Python 3 standard library)
-  scripts/narration.py text-to-speech providers: system, Piper, ElevenLabs, Sarvam, OpenAI, Google (standard library)
-  scripts/publish.py  YouTube, Instagram Reels and TikTok publishing with their official APIs (standard library)
-  scripts/render.py   MP4 renderer: drives a local Chrome and ffmpeg (standard library)
-  assets/             workspace templates, the UI, the scene engine (assets/scenes), and example scripts
+  SKILL.md               entry point for your agent
+  references/            setup, research, stories, writing, script craft, scenes, images,
+                         look, narration, publishing, schedules
+  scripts/studio.py      command line and local web server
+  scripts/narration.py   text-to-speech providers and your own recordings
+  scripts/publish.py     YouTube, Instagram and TikTok publishing
+  scripts/render.py      MP4 renderer (drives Chrome and ffmpeg)
+  assets/                workspace templates, the studio UI, the scene engine, example scripts
 ```
 
-The workspace is plain JSON and Markdown, so it is easy to back up, read, or edit by hand.
+`studio.py --help` lists every command. Your agent uses the same commands the studio does, so anything you can do in the UI, it can do too.
 
 ## Develop
 
 ```sh
-python3 dev.py demo              # throwaway studio full of sample data, opened in your browser
-python3 dev.py sandbox --seed    # test project at ../vid-studio-sandbox, with the skill linked (not copied)
-python3 dev.py try setup         # run Claude Code headlessly in the sandbox (setup, research, story, draft, status, or any prompt)
-python3 dev.py try research --agent codex
+python3 dev.py demo              # a throwaway studio with sample data, opened in your browser
+python3 dev.py sandbox --seed    # a test project at ../vid-studio-sandbox, with the skill linked
+python3 dev.py try setup         # run Claude Code headlessly in the sandbox (setup, research, story, draft, status)
 python3 dev.py reset --yes       # wipe the sandbox's studio data
 python3 -m unittest discover tests
 node --test tests/test_ui.js tests/test_engine.js
 ```
 
-The sandbox links the skill into `.claude/skills` and `.agents/skills`, so edits to this repo apply on the next prompt with no reinstall. Its studio data lives in the sandbox, so your real `~/vid-studio` is never touched. For interactive testing: `cd ../vid-studio-sandbox && claude`.
+The sandbox links the skill instead of copying it, so edits apply on the next prompt. Its data stays in the sandbox, so your real `~/vid-studio` is never touched. Design notes for larger changes are in [`docs/`](docs).

diff --git a/docs/ui-refresh/README.md b/docs/ui-refresh/README.md
@@ -12,6 +12,12 @@ Every image is the real studio, captured in Chromium. "Before" is this branch's 
 - **One system of tokens.** Every colour is a variable: a neutral scale, one indigo accent for focus and selection, and success/warning/danger tints. Buttons, inputs, selects and segmented controls share one height, radius and focus ring. Dialogs get a footer bar for their actions.
 - **Dark mode** follows the system, or is set from the sidebar and remembered in this browser.
 - **Production board.** Each column has a status dot (grey script, amber ready, green published), and the cards sit on a quiet well.
+- **A simpler script sidebar.**
+  - One primary action, then the stage.
+  - One status card with a row each for voice, video and post. Each row has a single next action (Make or Update the voiceover, Render, download the MP4), and the rest sits in a "⋯" menu.
+  - Four tabs: Preview, Review (score and hooks together), Comments, Post.
+  - Beat actions appear on hover, and the channel's look and Delete script move to a quiet footer.
+- **Project settings** sit in the sidebar footer, next to voice providers, while you're in Research.
 
 ### Research
 
